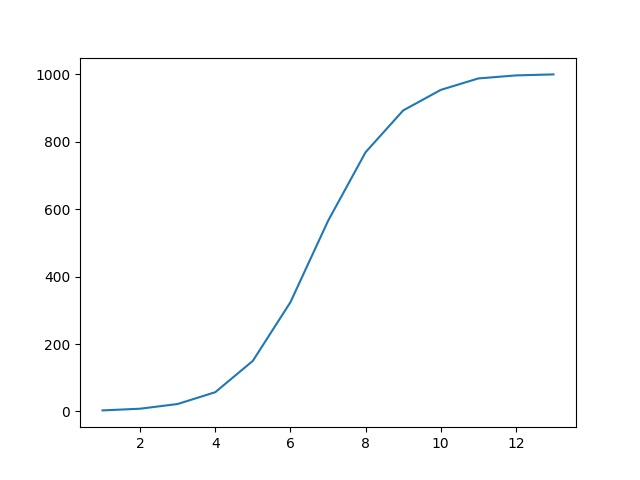
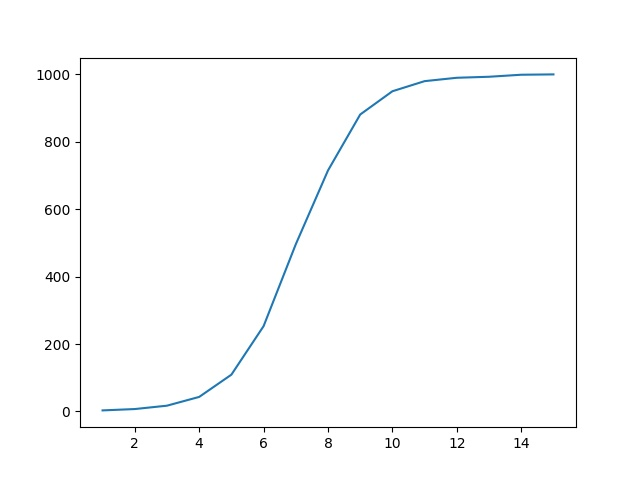
updates

diff --git a/Theo/lab2/multiple_plots.py b/Theo/lab2/multiple_plots.py
@@ -15,27 +15,26 @@ def one_inf_three():
     curInf = []
     attempts = []
     x=1
-    nodes[randint(0,n-1)] = 1
-
+    nodes[randint(0,n-1)] = 1 #first infection done here to keep the while loop simple
+    
     while not infectionDone:
         for i in range(n):
-            for j in range(3):
-                if nodes[i] == 1:
+            if nodes[i] == 1: #if the node is infected, target a random node
+                for _ in range(3): #since one node is infected, there are 3 nodes to infect
                     target = randint(0,n-1)
-                    if nodes[target] == 0:
+                    if nodes[target] == 0: #if the target is not infected, infect it
                         nodes[target] = 1
                         infectedPerLoop+=1
-                currentInfected += infectedPerLoop
-                curInf.append(currentInfected)
-                infectedPerLoop = 0
-        infectionRate.append (currentInfected)
-        attempts.append(x)
+                    currentInfected += infectedPerLoop #buffer variable to keep track of how many nodes were infected in the current loop
+                    curInf.append(currentInfected)
+                    infectedPerLoop = 0
+        infectionRate.append (currentInfected) #append the current infection rate to the list
+        attempts.append(x) #append the current attempt to the list
         x+=1
-        if currentInfected == n:infectionDone = True 
-
+        if currentInfected == n:
+            infectionDone = True #if all nodes are infected, stop the loop
     xpoints_13 = np.array(attempts)
     ypoints_13 = np.array(infectionRate)
-    
     return(xpoints_13, ypoints_13)
 
 def one_inf_one():
@@ -49,13 +48,13 @@ def one_inf_one():
     attempts = []
     x=1
 
-    nodes[randint(0,n-1)] = 1
+    nodes[randint(0,n-1)] = 1 #first infection done here to keep the while loop simple
 
     while not infectionDone:
         for i in range(n):
-            if nodes[i] == 1:
+            if nodes[i] == 1: #if the node is infected, target a random node
                 target = randint(0,n-1)
-                if nodes[target] == 0:
+                if nodes[target] == 0: #if the target is not infected, infect it
                     nodes[target] = 1
                     infectedPerLoop+=1
             currentInfected += infectedPerLoop
@@ -64,13 +63,13 @@ def one_inf_one():
         infectionRate.append (currentInfected)
         attempts.append(x)
         x+=1
-        if currentInfected == n:infectionDone = True 
+        if currentInfected == n:infectionDone = True #if all nodes are infected, stop the loop
 
     xpoints_11 = np.array(attempts)
     ypoints_11 = np.array(infectionRate)
-    return (xpoints_11, ypoints_11)
+    return (xpoints_11, ypoints_11) #return 2 arrays to be plotted
 
-def one_inf_one_10pc(): 
+def one_inf_one_10pc(): #function below works like the ones above, but with a 10% chance of infection
     n = 1000
     nodes = [0] * n
     infectionDone = False
@@ -103,7 +102,7 @@ def one_inf_one_10pc():
     ypoints_11_10p = np.array(infectionRate)
     return(xpoints_11_10p,ypoints_11_10p)
 
-def one_inf_one_50pc():
+def one_inf_one_50pc(): #function below works like the ones above, but with a 50% chance of infection
     n = 1000
     nodes = [0] * n
     infectionDone = False
@@ -136,15 +135,16 @@ def one_inf_one_50pc():
     ypoints_11_50p = np.array(infectionRate)
     return(xpoints_11_50p, ypoints_11_50p)
 
+ #transfer the arrays from the functions above to plot them
 a,b = one_inf_one()
 c,d = one_inf_three()
 e,f = one_inf_one_10pc()
 g,h = one_inf_one_50pc()
-
+#plot the arrays
 plt.plot(a,b, label = "1o1")
 plt.plot(c,d, label = "1o3")
 plt.plot(e,f, label = "1o1_10%")
 plt.plot(g,h, label = "1o1_50%")
 plt.legend()
-plt.savefig("lab2/infectionrate_multi.jpg")
+#plt.savefig("lab2/infectionrate_multi.jpg") disabled since file structure will change
 plt.show()

diff --git a/Theo/lab5/iot-network.py b/Theo/lab5/iot-network.py
@@ -2,14 +2,14 @@ from random import randint
 import matplotlib.pyplot as plt
 import numpy as np
 
-class NodeProps:
+class NodeProps: #class for node properties
     def __init__(self,status):
         self.status = status # 0 = no info, 1 = info received
 
 
-def multinodes(chance):
+def multinodes(chance): #start function with the specified chance of receiving info
     n = 20
-    nodesList = [[NodeProps(0) for j in range(n)] for i in range(n)]
+    nodesList = [[NodeProps(0) for j in range(n)] for i in range(n)] #list comprehension to create a 2D list of NodeProps
     spreadDone = False
     currentSpread = 1
     spreadPerLoop = 0
@@ -17,16 +17,16 @@ def multinodes(chance):
     curInf = []
     attempts = []
     x=1
-    nodesList[0][2].status = 1
-    while not spreadDone:
-        if (randint(1,100) <= chance):
-            for i in range(0,n):
+    nodesList[randint(0,n-1)][randint(0,n-1)].status = 1 #set the first node to infected
+    while not spreadDone: #while the spread is not done
+        if (randint(1,100) <= chance): #throw a dice, if it is smaller than or equa to the chance, the node will spread
+            for i in range(0,n): 
                 for j in range(0,n):
-                    if nodesList[i][j].status == 1:
-                        targetX = randint(0,n-1)
+                    if nodesList[i][j].status == 1: #if the node is infected
+                        targetX = randint(0,n-1) #target a random node
                         targetY = randint(0,n-1)
-                        if nodesList[targetX][targetY].status == 0:
-                            nodesList[targetX][targetY].status = 1
+                        if nodesList[targetX][targetY].status == 0: #if the target node is not infected
+                            nodesList[targetX][targetY].status = 1 #infect the target node
                             spreadPerLoop+=1
             currentSpread += spreadPerLoop
             curInf.append(currentSpread)
@@ -34,13 +34,13 @@ def multinodes(chance):
             spreadRate.append (currentSpread)
             attempts.append(x)
             x+=1
-            if currentSpread == n**2:spreadDone = True 
+            if currentSpread == n**2:spreadDone = True  #if the spread is done, stop the loop
 
     xpoints = np.array(attempts)
     ypoints = np.array(spreadRate)
-    plt.plot(xpoints, ypoints)
-    chance = str(chance)
-    plt.savefig("Theo/lab5/inforate"+chance+"%.jpg")
+    plt.plot(xpoints, ypoints) #plot the spread rate
+    #chance = str(chance) variable conversion to string for the plot file name
+    #plt.savefig("Theo/lab5/inforate"+chance+"%.jpg") disabled because file structure will change
     plt.show()
 
 multinodes(100)

diff --git a/Theo/lab8/olami-feder-christensen.py b/Theo/lab8/olami-feder-christensen.py
@@ -1,4 +1,58 @@
-from random import randint
+from random import randint, randrange
+import random
 import matplotlib.pyplot as plt
 import numpy as np
+
+size = 20
+surface = [[random.uniform(0,4) for j in range (size)]for i in range(size)]  #instantiate the surface with random values
+flow = surface #on the first step, flow is the same as surface
+status = [[0 for j in range(size)] for i in range(size)] #instantiate the status list with 0s
+
+for _ in range (2000): #run the simulation for 2000 steps 
+    for i in range(20):
+        for j in range(20):
+            if surface[i][j] >=4.0: critAchieved = True #check if the critical value has been reached in any position
+    if (critAchieved == False): #if not
+        for i in range(20):
+            for j in range(20):
+                surface[i][j] += 0.001 #add the Fout value to every cell in the surface
+    else: #if it has been reached   
+        for i in range(20):
+            for j in range(20):
+                if flow[i][j] >= 4.0: #find the cells where Fcrit has been reached
+                    status[i][j] = 1 #set the status of the cell to 1
+                    force = flow[i][j] / 4 #calculate the impact to neighbours
+                    flow[i][j] = 0 #set the flow value to 0
+                    surface[i][j] = 0 #set the surface value to 0
+                    if i == 0: #add the force to the neighbours checking for out of bound values
+                        if j == 0:
+                           flow[i+1][j] += force
+                           flow[i][j+1] += force
+                        elif j == 19:
+                           flow[i+1][j] += force
+                           flow[i][j-1] += force
+                        else:
+                           flow[i+1][j] += force
+                           flow[i-1][j] += force
+                           flow[i][j+1] += force
+                    elif i == 19:
+                        if j == 0:
+                           flow[i-1][j] += force
+                           flow[i][j+1] += force
+                        elif j == 19:
+                           flow[i-1][j] += force
+                           flow[i][j-1] += force
+                        else:
+                           flow[i-1][j] += force
+                           flow[i][j+1] += force
+                           flow[i][j-1] += force
+                    else:
+                        flow[i-1][j] += force
+                        flow[i+1][j] += force
+                        flow[i][j+1] += force
+                        flow[i][j-1] += force
+#that's pretty much all i can figure out 
+                        
+
+
 

diff --git a/Theo/lab3/antivirus.py b/Theo/lab3/antivirus.py
@@ -1,49 +1,46 @@
-import random
 from random import randint
 import matplotlib.pyplot as plt
 import numpy as np
 
-class NodeProps:
+class NodeProps: #create a class to store the properties of each node
     def __init__(self,status, infection_lambda):
         self.status = status # 0 = healthy, 1 = infected, 2 = recovered
         self.infection_lambda = infection_lambda # time until node recovers
 
     
 n = 1000
-nodesList = [0] * n
-for i in range(0,n):nodesList[i] = NodeProps(0,0)
+nodesList = [0] * n #instantiate an empty list of nodes
+for i in range(0,n):nodesList[i] = NodeProps(0,0) #instantiate each node with status 0 (healthy) and infection_lambda 0 (0 epochs since infection)
 infectionDone = False
 currentInfected = 1
 infectedPerLoop = 0
 infectionRate = []
-curInf = []
 attempts = []
 x=1
-nodesList[5] = NodeProps(1,0)
-while not infectionDone:
+nodesList[5] = NodeProps(1,0) #first infection done here to keep the while loop simple
+while not infectionDone: #while the infection is not done
     for i in range(n):
-        if nodesList[i].status == 1:
-            target = randint(0,n-1)
-            if nodesList[target].status == 0:
+        if nodesList[i].status == 1: #if the node is infected, target a random node
+            target = randint(0,n-1) #target a random node
+            if nodesList[target].status == 0: #if the target is not infected, infect it
                 nodesList[target].status = 1
-                infectedPerLoop+=1
-    for i in range(n):
-        if nodesList[i].status == 1:
+                infectedPerLoop+=1 #increment the number of infected nodes
+    for i in range(n): 
+        if nodesList[i].status == 1: #if the node is infected, count one epoch up for every loop
             nodesList[i].infection_lambda += 1
     for i in range(n):    
-        if nodesList[i].infection_lambda == 10:
+        if nodesList[i].infection_lambda == 10: #if the node has been infected for 10 epochs, it recovers
             nodesList[i].status = 2
 
     currentInfected += infectedPerLoop
-    curInf.append(currentInfected)
     infectedPerLoop = 0
-    infectionRate.append (currentInfected)
+    infectionRate.append (currentInfected) 
     attempts.append(x)
     x+=1
-    if currentInfected == n:infectionDone = True 
+    if currentInfected == n:infectionDone = True #if all nodes are infected, stop the loop
 
 xpoints = np.array(attempts)
 ypoints = np.array(infectionRate)
 plt.plot(xpoints, ypoints)
-plt.savefig("lab3/infectionrate.jpg")
+#plt.savefig("/lab3/infectionrate.jpg") disabled because file structure will change
 plt.show()

diff --git a/Theo/lab6/iot-network-mod.py b/Theo/lab6/iot-network-mod.py
@@ -2,11 +2,11 @@ from random import randint
 import matplotlib.pyplot as plt
 import numpy as np
 
-class NodeProps:
+class NodeProps: #class for node properties
     def __init__(self,status):
         self.status = status # 0 = no info, 1 = info received
 
-def multinodes(n):
+def multinodes(n): #start function with the specified network size
     nodesList = [[NodeProps(0) for j in range(n)] for i in range(n)]
     spreadDone = False
     currentSpread = 1
@@ -15,15 +15,15 @@ def multinodes(n):
     curInf = []
     attempts = []
     x=1
-    nodesList[0][2].status = 1
-    while not spreadDone:
+    nodesList[randint(0,n-1)][randint(0,n-1)].status = 1 #set the first node to infected
+    while not spreadDone: #while the spread is not done
         for i in range(0,n):
             for j in range(0,n):
-                if nodesList[i][j].status == 1:
-                    targetX = randint(0,n-1)
+                if nodesList[i][j].status == 1: #if the node is infected
+                    targetX = randint(0,n-1) #target a random node
                     targetY = randint(0,n-1)
-                    if nodesList[targetX][targetY].status == 0:
-                        nodesList[targetX][targetY].status = 1
+                    if nodesList[targetX][targetY].status == 0: #if the target node is not infected
+                        nodesList[targetX][targetY].status = 1 #infect the target node
                         spreadPerLoop+=1
         currentSpread += spreadPerLoop
         curInf.append(currentSpread)
@@ -31,13 +31,13 @@ def multinodes(n):
         spreadRate.append (currentSpread)
         attempts.append(x)
         x+=1
-        if currentSpread == n**2:spreadDone = True 
+        if currentSpread == n**2:spreadDone = True #if the spread is done, stop the loop
 
     xpoints = np.array(attempts)
     ypoints = np.array(spreadRate)
-    plt.plot(xpoints, ypoints)
-    n = str(n)
-    plt.savefig("Theo/lab6/inforate"+n+".jpg")
+    plt.plot(xpoints, ypoints) #plot the spread rate
+    #n = str(n) variable conversion to string for the plot file name
+    #plt.savefig("Theo/lab6/inforate"+n+".jpg") disabled because file structure will change
     plt.show()
 
 multinodes(50)

diff --git a/Theo/lab1/1infects1.py b/Theo/lab1/1infects1.py
@@ -12,25 +12,25 @@ curInf = []
 attempts = []
 x=1
 
-nodes[randint(0,n-1)] = 1
+nodes[randint(0,n-1)] = 1 #first infection done here to keep the while loop simple
 
 while not infectionDone:
     for i in range(n):
         if nodes[i] == 1:
-            target = randint(0,n-1)
-            if nodes[target] == 0:
+            target = randint(0,n-1) #if the node is infected, target a random node
+            if nodes[target] == 0: #if the target is not infected, infect it
                 nodes[target] = 1
-                infectedPerLoop+=1
-        currentInfected += infectedPerLoop
+                infectedPerLoop+=1 #buffer variable to keep track of how many nodes were infected in the current loop
+        currentInfected += infectedPerLoop 
         curInf.append(currentInfected)
         infectedPerLoop = 0
-    infectionRate.append (currentInfected)
-    attempts.append(x)
+    infectionRate.append (currentInfected) #keep track of how many nodes were infected in each loop
+    attempts.append(x) #keep track of how many loops have been done
     x+=1
     if currentInfected == n:infectionDone = True 
 
 xpoints = np.array(attempts)
 ypoints = np.array(infectionRate)
 plt.plot(xpoints, ypoints)
-plt.savefig("lab1/infectionrate.jpg")
+plt.savefig("lab1/infectionrate.jpg") 
 plt.show()

diff --git a/Theo/lab4/antivirus.py b/Theo/lab4/antivirus.py
@@ -46,7 +46,7 @@ def multinodes(n):
     ypoints = np.array(infectionRate)
     plt.plot(xpoints, ypoints)
     n = str(n)
-    plt.savefig("Theo/lab4/infectionrate"+n+".jpg")
+    #plt.savefig("Theo/lab4/infectionrate"+n+".jpg") disabled since file structure will change
     plt.show()
 
 multinodes(50)
